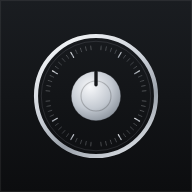
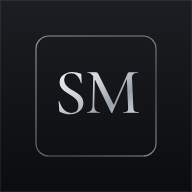
v3.13: loqo SM monoqramı ilə əvəz olundu
- Hərfli loqo: qrafit fonda gümüşü "SM" monoqramı, nazik gümüşü çərçivə
- "SAFE MONEY" yazısı loqo ilə eyni şriftlə (Cormorant Garamond, SIL OFL; yalnız lazım olan hərflər, 3.6 KB)
- Bütün ikonlar yeniləndi (192, 512, maskable 192/512)

Claude-Session: https://claude.ai/code/session_011q35v4qcPtkrBhHAGwtmLK

diff --git a/css/main.css b/css/main.css
@@ -297,8 +297,10 @@ body {
 .empty-note { color: var(--muted); text-align: center; font-size: 13.5px; padding: 18px 0; margin: 0; }
 
 
-/* ==== Brend: loqo + yazı (v3.12) ==== */
+/* ==== Brend: SM monoqram loqo + "SAFE MONEY" yazısı (v3.13) ====
+   Şrift: Cormorant Garamond (SIL Open Font License, fonts/OFL.txt) — yalnız lazım olan hərflər, ~kiçik fayl. */
+@font-face { font-family: "SM Brand"; src: url("../fonts/brand.woff") format("woff"); font-weight: 600; font-display: swap; }
 .brand-logo { width: 30px; height: 30px; border-radius: 8px; display: block; }
 .brand-logo-lg { width: 76px; height: 76px; border-radius: 19px; margin: 0 auto 16px; box-shadow: 0 10px 30px var(--shadow); }
-.brand-wordmark { font-size: 13px !important; font-weight: 600 !important; letter-spacing: 0.22em !important; text-transform: uppercase; color: var(--ink); margin: 0; }
-.brand-wordmark-lg { font-size: 16px !important; letter-spacing: 0.26em !important; margin-bottom: 8px !important; }
+.brand-wordmark { font-family: "SM Brand", Georgia, "Times New Roman", serif !important; font-size: 17px !important; font-weight: 600 !important; letter-spacing: 0.2em !important; text-transform: uppercase; color: var(--ink); margin: 0; line-height: 1; }
+.brand-wordmark-lg { font-size: 22px !important; letter-spacing: 0.24em !important; margin-bottom: 10px !important; }

diff --git a/sw.js b/sw.js
@@ -5,6 +5,7 @@
 
 // VACİB: Hər yeni versiya buraxdıqda bu adı artır (v3 → v4 → v5 ...).
 // Bu, köhnə keşin avtomatik təmizlənməsini təmin edir.
+// (v26: Loqo SM monoqramına dəyişdi (hərfli), brend şrifti fonts/brand.woff.)
 // (v25: Yeni premium loqo (qrafit + gümüşü seyf çarxı) və 'SAFE MONEY' yazısı; ikonlar yeniləndi.)
 // (v24: Başlıqlar 3 dildə aydınlaşdırıldı (Borclar, Hesabat); 'Bu ay gündə orta' düzgün hesablanır.)
 // (v23: Son əməliyyatlar — kateqoriya və tarix aralığı filtri; keçmiş tarixə xərc düyməsi bura köçdü.)
@@ -23,7 +24,7 @@
 // (v10: dil faylları (lang/*.json) üçün network-first əlavə edildi.)
 // (v9: ad "Safe Money" olaraq dəyişdi və yeni logo əlavə edildi — köhnə keşlənmiş
 // ikonların/title-ın istifadəçilərdə qalmaması üçün versiya artırıldı.)
-const CACHE_ADI = 'safe-money-cache-v25';
+const CACHE_ADI = 'safe-money-cache-v26';
 
 const KESLENECEK_FAYLLAR = [
   './index.html',
@@ -34,6 +35,7 @@ const KESLENECEK_FAYLLAR = [
   './icon-maskable-512.png',
   './css/main.css',
   './css/components.css',
+  './fonts/brand.woff',
   './js/config.js',
   './js/ui.js',
   './js/auth.js',

diff --git a/js/storage.js b/js/storage.js
@@ -1,5 +1,5 @@
 /* Safe Money — vəziyyət, yükləmə, yadda saxlama */
-const APP_VERSION = '3.12'; // hər yeni göndərilən html versiyasında əl ilə +1 artırılır
+const APP_VERSION = '3.13'; // hər yeni göndərilən html versiyasında əl ilə +1 artırılır
 let aktifDonem = 'gunluk';
 let goruntulenenTarix = new Date(); goruntulenenTarix.setHours(0, 0, 0, 0);
 let kategoriler = [];
